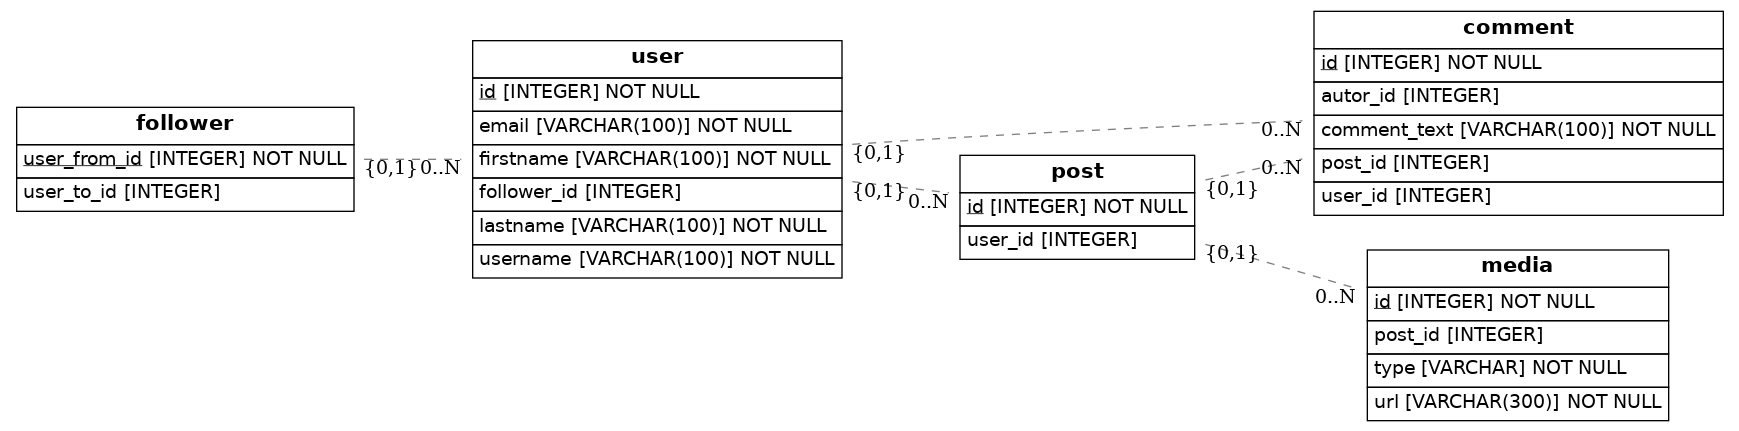
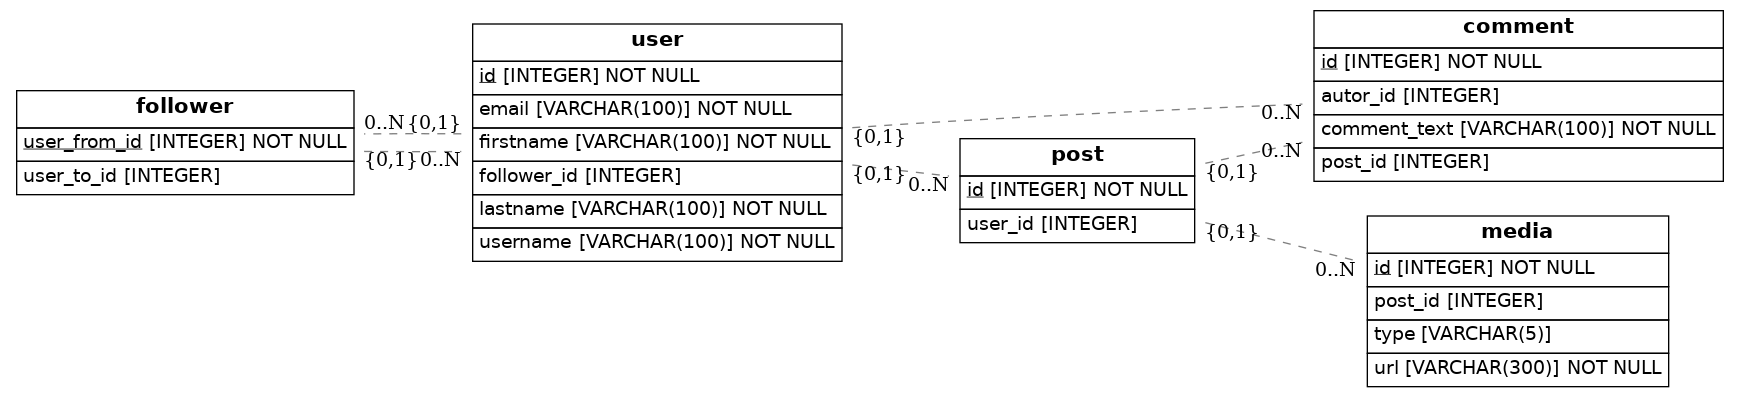
entrega de proyecto

Changed region(s): [[0.0, 0.0605, 0.5589, 0.665], [0.4968, 0.0, 0.9937, 0.6348], [0.7453, 0.5441, 0.9626, 0.9975]]

diff --git a/src/models.py b/src/models.py
@@ -12,7 +12,7 @@ Base = declarative_base()
 class Follower(Base):
     __tablename__ = 'follower'
     user_from_id= Column(Integer, primary_key = True) 
-    user_to_id = Column(Integer)
+    user_to_id = Column(Integer, ForeignKey('user.id'))
 
 class User(Base):
     __tablename__ = 'user'
@@ -28,9 +28,7 @@ class Comment (Base):
     __tablename__ = 'comment'
     id = Column(Integer,primary_key = True)
     comment_text= Column(String (100), nullable=False)
-    autor_id = Column(Integer )
-    post_id = Column(Integer)
-    user_id = Column(Integer, ForeignKey('user.id'))
+    autor_id = Column(Integer, ForeignKey('user.id') )
     user = relationship(User)
     post_id= Column (Integer, ForeignKey('post.id'))
     post= relationship("Post")
@@ -39,14 +37,13 @@ class Comment (Base):
 class Post (Base):
     __tablename__ = 'post'
     id = Column(Integer,primary_key = True)
-    user_id= Column(Integer)
     user_id = Column(Integer, ForeignKey('user.id'))
     user = relationship(User)
 
 class Media (Base):
     __tablename__ = 'media'
     id = Column(Integer,primary_key = True)
-    type= Column(Enum, nullable=False)
+    type= Column(Enum('image','video','audio',name='media_type',))
     url = Column (String(300), nullable=False )
     post_id = Column(Integer, ForeignKey('post.id'))
     post = relationship(Post)
